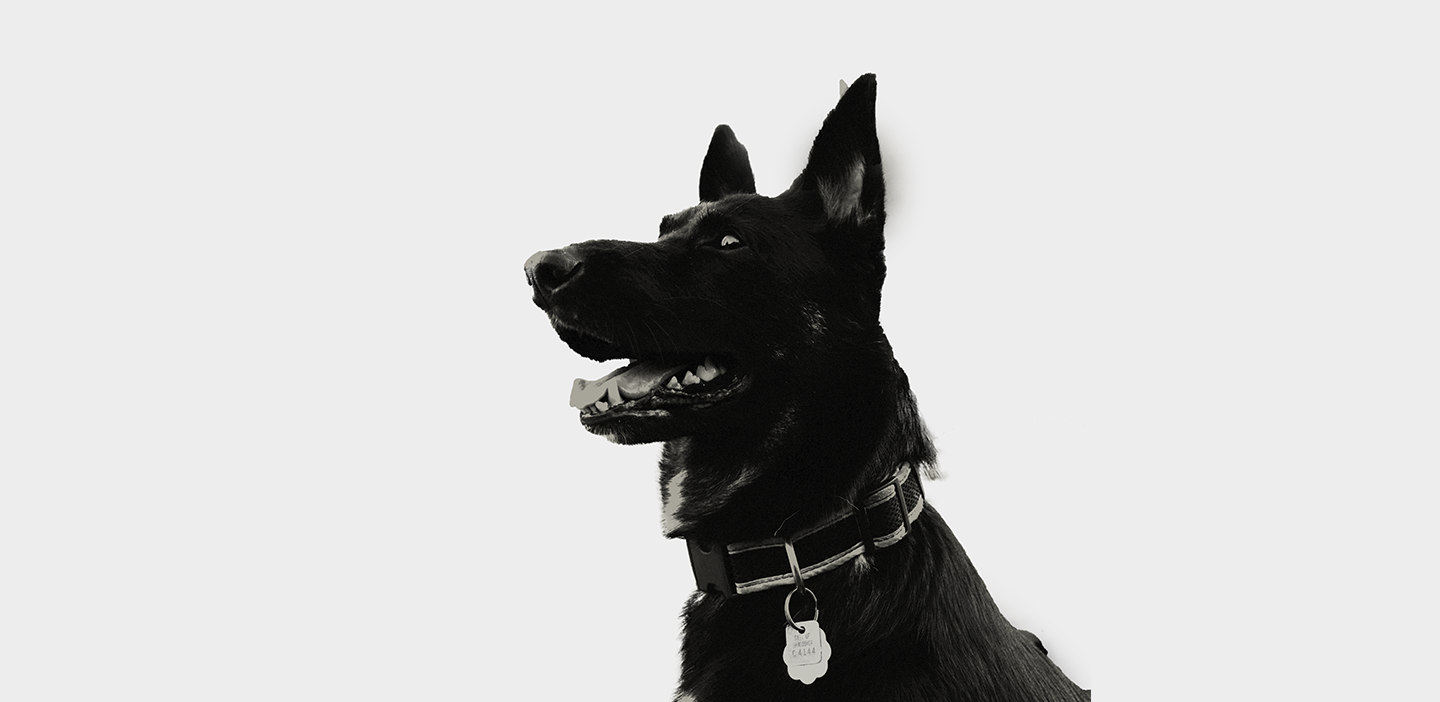
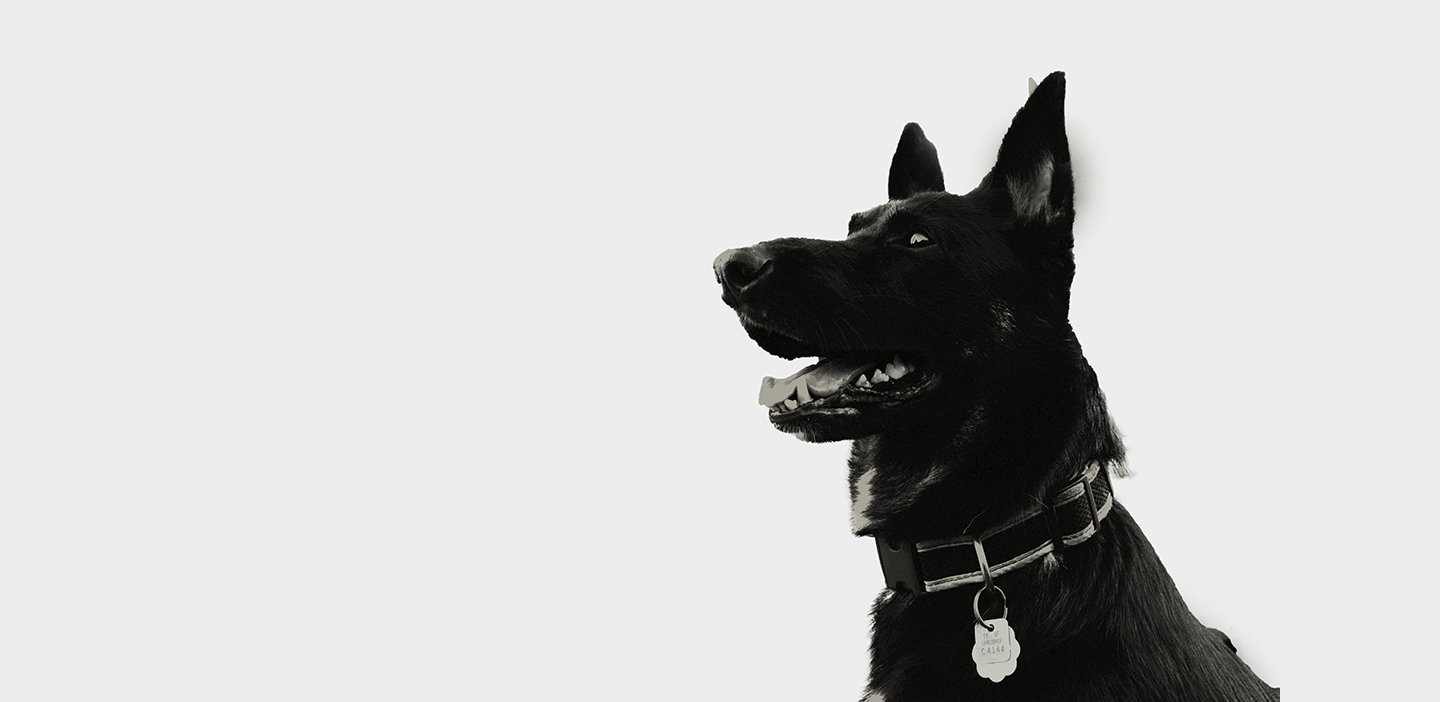
completed CSS and layout of website

Changed region(s): [[0.3438, 0.0897, 0.9062, 1.0]]

diff --git a/css/main.css b/css/main.css
@@ -65,9 +65,11 @@ body {
 
 
 header {
-    height: 700px;
+    height: 800px;
     background: url("../img/dog-img.png");
     background-size: cover;
+    background-position-x: 110px;
+    background-repeat: no-repeat;
     background-color: #ebebeb;
 }
 
@@ -75,14 +77,24 @@ header {
 header h1 {
     font-family: 'reenie-beanie', sans-serif;
     color: #2b2b2b;
-    font-size: 48px;
-    padding: 40px 0 30px;
-  }
+    font-size: 120px;
+    margin-top: 200px;
+    margin-left: -200px;
+ }
+
+header h2{
+  font-family: 'adorn-roman', sans-serif;
+  color: #122932;
+  font-size: 45px;
+  letter-spacing: 10px;
+  margin-top: -150px;
+  margin-left: -100px;
+
+}
 
 nav {
     float: right;
-    margin: 0;
-    padding: 40px 30px 0 0;
+    margin-right: -140px;
 
 }
 
@@ -92,11 +104,13 @@ nav ul li {
 }
 
 nav ul li a {
-    font-family: 'adorn-condensed-sans', sans-serif;
+    font-family: 'adorn-roman', sans-serif;
     font-size: 36px;
+    letter-spacing: 2px;
     text-decoration: none;
-    color: #2b2b2b;
-    padding-left: 20px;
+    text-transform: lowercase;
+    color: #122932;
+    padding-left: 35px;
 
 }
 
@@ -106,6 +120,7 @@ nav ul li a {
 
 #work  {
     text-align: left;
+    margin-bottom: 50px;
 }
 
 
@@ -130,6 +145,7 @@ nav ul li a {
 #work h5 {
     font-family: 'adorn-roman', sans-serif;
     font-size: 34px;
+    margin-bottom: -40px;
 }
 
 
@@ -150,7 +166,26 @@ work p {
   font-family: 'alegreya', serif;
   font-size: 24px;
 }
+#jubp a:link {
+    color: #2b2b2b;
+    text-decoration: none;
+}
 
+#jubp a:visited {
+    color: #2b2b2b;
+    text-decoration: none;
+}
+
+#jubp a:hover {
+    color: #354b53;
+    text-decoration: none;
+}
+
+
+#jubp a:active {
+    color: #2b2b2b;
+    text-decoration: none;
+}
 
 #jubimg {
   float: left;
@@ -175,7 +210,7 @@ work p {
 }
 
 #rogp a:hover {
-    color: #122932;
+    color: #354b53;
     text-decoration: none;
 }
 
@@ -199,7 +234,25 @@ work p {
   font-family: 'alegreya', serif;
   font-size: 24px;
 }
+#manp a:link {
+    color: #2b2b2b;
+    text-decoration: none;
+}
 
+#manp a:visited {
+    color: #2b2b2b;
+    text-decoration: none;
+}
+
+#manp a:hover {
+    color: #354b53;
+    text-decoration: none;
+}
+
+#manp a:active {
+    color: #2b2b2b;
+    text-decoration: none;
+}
 
 #manimg {
   float: left;
@@ -227,6 +280,7 @@ work p {
     line-height: 50px;
     width: 375px;
     margin: 0 auto;
+    margin-bottom: -20px;
 }
 
 #work-serv p {
@@ -255,48 +309,40 @@ work p {
   font-size: 48px;
   text-align: center;
   color: #2b2b2b;
-  /**padding-bottom: 15px;**/
 
 }
 
 
-/**#about #info {
+#about #aboutimg {
+    border-top: 8px solid #cccccc;
+    border-bottom: 8px solid #cccccc;
+    width: 395px;
+    margin-left: 100px;
+}
 
-    text-align: center;
-    padding: 15px 45px;
-    margin: 45px 0 0 300px;
-    background-color: rgba(255, 255, 255, 0.95);
-    border-left: 7px inset rgba(35, 35, 35, 0.5);
-    border-bottom: 10px inset rgba(0, 0, 0, 0.7);
-    border-right: 7px inset rgba(35, 35, 35, 0.5);
-    border-top: 10px inset rgba(0, 0, 0, 0.7);
-    border-radius: .5%;
-  }**/
-
-
-#about aboutimg {
-    border: 3px
-    color: #cccccc;
-    border-radius: 50%;
+#about #aboutp {
+    margin-left: 100px;
 }
 
 #about p {
     font-family: 'alegreya', sans-serif;
-    font-weight: 500;
-    font-size: 20px;
+    font-size: 24px;
     line-height: 30px;
     color: #282828;
-    padding: 35px;
+    text-align: center;
   }
-
+#aboutp span {
+  font-family: 'reenie-beanie', sans-serif;
+  font-size: 40px;
+}
 
 /****** CONTACT *****/
 
 
 #contact .full-width {
-    padding: 15px 10px;
+    padding: 0px 10px;
     margin: 0 auto;
-    height: 400px;
+    height: 200px;
 }
 
 #contact h3 {
@@ -304,46 +350,28 @@ work p {
     font-size: 50px;
     text-align: center;
     color: #2b2b2b;
+    margin-bottom: -60px;
 }
 
 #contact h5 {
     font-family: 'alegreya', serif;
     font-size: 30px;
+    line-height: 30px;
     text-align: center;
     color: #2b2b2b;
 }
-
-#contact a {
-    text-decoration: none;
-    color: #122932;
-    font-family: 'alegreya', serif;
-    font-size: 24px;
-}
-
-#contact #email {
-  float: left;
-  text-align: center;
-  padding: 25px 0 0 50px;
-
-}
-
-
-#contact #social {
-    width: 700px;
-    padding: 50px 0 0 100px;
-
-}
-
 #contact ul {
-    list-style: none;
+  list-style: none;
 }
 
 #contact ul li {
     display: inline-block;
+    padding: 0 70px;
+    padding-bottom: 30px;
 
 }
 
-#contact img {
-   width: 25%;
-   padding: 50px;
+#contact #contact-icons {
+   margin-left: 280px;
+   padding-top: 20px;
 }

diff --git a/index.html b/index.html
@@ -1,7 +1,7 @@
 <!doctype html>
 <html lang=en>
     <head>
-
+<meta charset="utf-8">
         <!--title -->
         <title>Shannon Moriarity | Portfolio</title>
 
@@ -22,6 +22,7 @@
           <div class="full-width">
             <div class="half-width">
               <h1>Shannon Moriarity</h1>
+              <h2>design &amp; develop</h2>
             </div>
             <div class="half-width">
               <nav>
@@ -53,8 +54,8 @@
               </div>
 
               <div class="half-width" id="jubp">
-                <!-- Add Link to Github in <h5> <a href="" target="_blank">Jubilee Austen</a>-->
-                    <h5>Jubilee Austen</h5>
+                <h5><a href="https://smoriarity.github.io/jubiliee-project/" target="_blank">Jubilee Austen</a></h5>
+                    <!--<h5>Jubilee Austen</h5>-->
                     <p>Hand-coded with HTML &amp; CSS for a portfolio website</p>
 
               </div>
@@ -65,8 +66,8 @@
                 </div>
 
               <div class="half-width" id="rogp">
-                  <!-- Add Link to Github in <h5> <a href="" target="_blank">Rogue Pickings Project</a>-->
-                  <h5>Rogue Pickings</h5>
+                  <h5><a href="https://smoriarity.github.io/rogue-project/" target="_blank">Rogue Pickings Project</a></h5>
+                  <!--<h5>Rogue Pickings</h5>-->
                   <p>Hand-coded website from a PSD design template for a restuarant.</p>
 
 
@@ -77,7 +78,7 @@
                 </div>
 
               <div class="half-width" id="manp">
-                  <h5>Holstee Manifesto</h5>
+                  <h5><a href="https://codepen.io/smoriarity/full/gBmwVM/" target="_blank">Holstee Manifesto</a></h5>
                   <p>Using inspiration from the Holstee Manifesto, this was built entirely with HTML &amp; CSS.</p>
 
 
@@ -118,7 +119,7 @@
                 </div>
 
               <div class="half-width" id="aboutp">
-                <p>I’m Shannon and I’m an aspiring web developer, with other creative outlets such as photography and writing. I currently live in North Carolina, but will be moving back to Vermont within the year. I’ve worked as a Research Assistant in psychiatry for the last 3 years. I’m enrolled in Skillcrush and hope to apply my psychology background to provide thoughtful web services.
+                <p>I’m <span>Shannon</span> and I’m an aspiring web developer, with other creative outlets such as photography and writing. I currently live in North Carolina, but will be moving back to Vermont within the year. I’ve worked as a Research Assistant in psychiatry for the last 3 years. I’m enrolled in Skillcrush and hope to apply my psychology background to provide thoughtful web services.
                 <br>Born and raised on a back road in Vermont, I love the outdoors. I take inspiration from nature and apply it to all aspects of life. If I’m not at my desk I’m in the woods somewhere with my dog.</p>
 
               </div>
@@ -129,21 +130,19 @@
             <div class="full-width">
               <h3>want to learn more?</h3>
               <h5>connect with me &amp; let's build something cool together</h5>
-              <div class="half-width" id="email">
-                  <a href="mailto:smoriarity16@gmail.com">smoriarity16@gmail.com</a>
-              </div>
+              <div id="contact-icons">
 
-              <div class="half-width" id="social">
-
-                  <ul>
+                <ul>
+                   <li><a href="mailto:smoriarity16@gmail.com" target="-blank"><img src="img/envelope.png" alt="email icon"/></a></li>
                     <li><a href="https://github.com/smoriarity" target="_blank"><img src="img/github-icon.png" alt="github icon"/></a></li>
-                    <li><a href="https://www.twitter.com/smoriarity16" target="_blank"><img src="img/twitter-icon.png" alt="twitter icon"/></a></li>
+
+                  <!--  <li><a href="https://www.twitter.com/smoriarity16" target="_blank"><img src="img/twitter-icon.png" alt="twitter icon"/></a></li>-->
+
                     <li><a href="https://www.instagram.com/smoriarity" target="_blank"><img src="img/instagram-icon.png" alt="instagram icon"/></a></li>
                     <li><a href="https://www.linkedin.com/in/shannon-moriarity-06b58ba0" target="_blank"><img src="img/linkedin-icon.png" alt="linkedin icon"/></a></li>
                   </ul>
-              </div>
 
-          </div>
+              </div>
         </footer>
       </main>
     </body>
